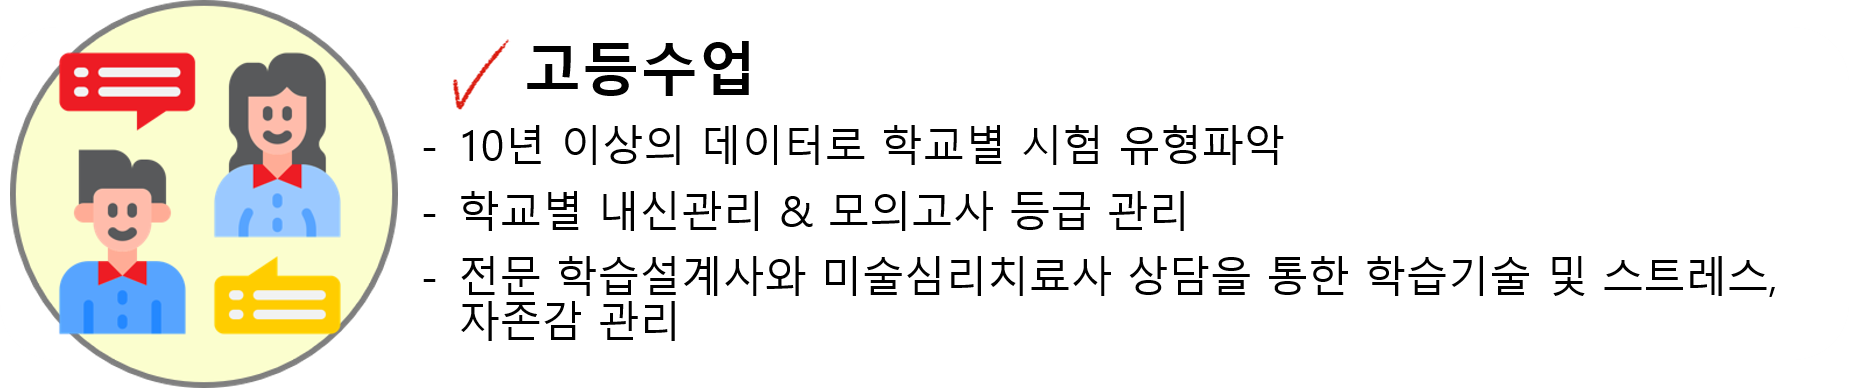
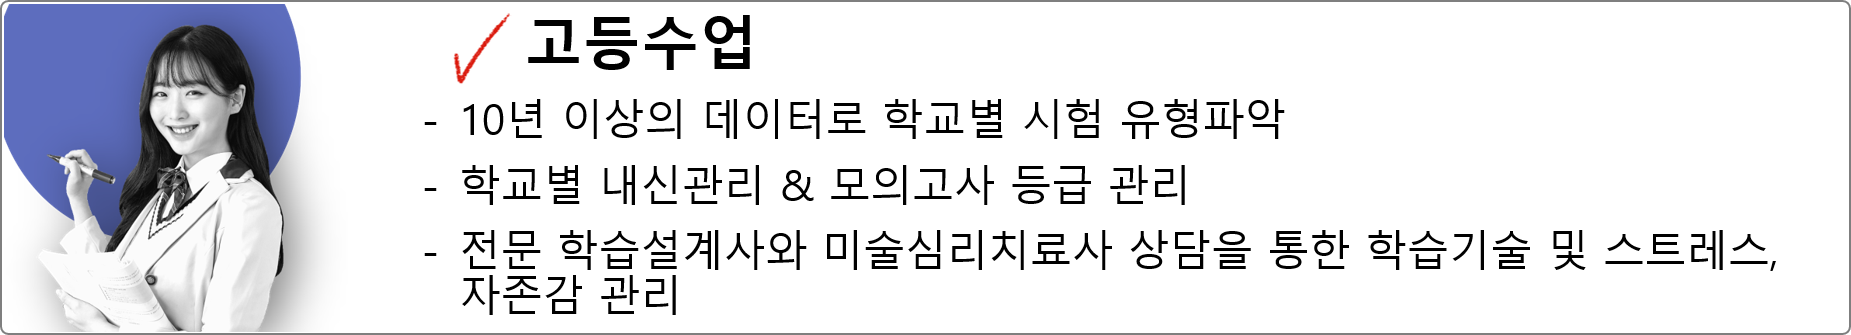
recently211120

Changed region(s): [[0.0, 0.0, 1.0, 1.0], [0.2464, 0.6567, 0.9546, 0.9552]]

diff --git a/js/form-submission-handler.js b/js/form-submission-handler.js
@@ -1,0 +1,124 @@
+(function() {
+  function validEmail(email) {
+    var re = /^([\w-]+(?:\.[\w-]+)*)@((?:[\w-]+\.)*\w[\w-]{0,66})\.([a-z]{2,6}(?:\.[a-z]{2})?)$/i;
+    return re.test(email);
+  }
+
+  function validateHuman(honeypot) {
+    if (honeypot) {  //if hidden form filled up
+      console.log("Robot Detected!");
+      return true;
+    } else {
+      console.log("Welcome Human!");
+    }
+  }
+
+  // get all data in form and return object
+  function getFormData(form) {
+    var elements = form.elements;
+
+    var fields = Object.keys(elements).filter(function(k) {
+          return (elements[k].name !== "honeypot");
+    }).map(function(k) {
+      if(elements[k].name !== undefined) {
+        return elements[k].name;
+      // special case for Edge's html collection
+      }else if(elements[k].length > 0){
+        return elements[k].item(0).name;
+      }
+    }).filter(function(item, pos, self) {
+      return self.indexOf(item) == pos && item;
+    });
+
+    var formData = {};
+    fields.forEach(function(name){
+      var element = elements[name];
+      
+      // singular form elements just have one value
+      formData[name] = element.value;
+
+      // when our element has multiple items, get their values
+      if (element.length) {
+        var data = [];
+        for (var i = 0; i < element.length; i++) {
+          var item = element.item(i);
+          if (item.checked || item.selected) {
+            data.push(item.value);
+          }
+        }
+        formData[name] = data.join(', ');
+      }
+    });
+
+    // add form-specific values into the data
+    formData.formDataNameOrder = JSON.stringify(fields);
+    formData.formGoogleSheetName = form.dataset.sheet || "responses"; // default sheet name
+    formData.formGoogleSendEmail = form.dataset.email || ""; // no email by default
+
+    console.log(formData);
+    return formData;
+  }
+
+  function handleFormSubmit(event) {  // handles form submit without any jquery
+    event.preventDefault();           // we are submitting via xhr below
+    var form = event.target;
+    var data = getFormData(form);         // get the values submitted in the form
+
+    /* OPTION: Remove this comment to enable SPAM prevention, see README.md
+    if (validateHuman(data.honeypot)) {  //if form is filled, form will not be submitted
+      return false;
+    }
+    */
+
+    if( data.email && !validEmail(data.email) ) {   // if email is not valid show error
+      var invalidEmail = form.querySelector(".email-invalid");
+      if (invalidEmail) {
+        invalidEmail.style.display = "block";
+        return false;
+      }
+    } else {
+      disableAllButtons(form);
+      var url = form.action;
+      var xhr = new XMLHttpRequest();
+      xhr.open('POST', url);
+      xhr.withCredentials = true;
+      xhr.setRequestHeader("Content-Type", "application/x-www-form-urlencoded");
+      xhr.onreadystatechange = function() {
+          console.log(xhr.status, xhr.statusText);
+          console.log(xhr.responseText);
+          form.reset();
+          var formElements = form.querySelector(".form-elements")
+          if (formElements) {
+            formElements.style.display = "none"; // hide form
+          }
+          var thankYouMessage = form.querySelector(".thankyou_message");
+          if (thankYouMessage) {
+            thankYouMessage.style.display = "block";
+          }
+          return;
+      };
+      // url encode form data for sending as post data
+      var encoded = Object.keys(data).map(function(k) {
+          return encodeURIComponent(k) + "=" + encodeURIComponent(data[k]);
+      }).join('&');
+      xhr.send(encoded);
+    }
+  }
+  
+  function loaded() {
+    console.log("Contact form submission handler loaded successfully.");
+    // bind to the submit event of our form
+    var forms = document.querySelectorAll("form.gform");
+    for (var i = 0; i < forms.length; i++) {
+      forms[i].addEventListener("submit", handleFormSubmit, false);
+    }
+  };
+  document.addEventListener("DOMContentLoaded", loaded, false);
+
+  function disableAllButtons(form) {
+    var buttons = form.querySelectorAll("button");
+    for (var i = 0; i < buttons.length; i++) {
+      buttons[i].disabled = true;
+    }
+  }
+})();

diff --git a/index.html b/index.html
@@ -25,6 +25,7 @@
     <script src="js/popper.min.js"></script>
     <script src="js/bootstrap.min.js"></script>
     <script src="js/jquery.sticky.js"></script>
+  
     
   
 </head>
@@ -138,13 +139,11 @@
       <div class="row">
         <div class="col-2"></div>
         <div class="col-8 pd-10">
-          <div class="subject_tit" data-aos="fade-down"
-          data-aos-easing="linear"
-          data-aos-duration="1500">
+          <div class="subject_tit"  data-aos="fade-up"
+          data-aos-duration="3000">
             <img src="images/sec2_title.png" alt="subject_banner">
           </div>
-          <div class="subject_cur" data-aos="fade-down"
-          data-aos-easing="linear"
+          <div class="subject_cur"  data-aos="fade-up"
           data-aos-duration="3000">
             <img src="images/sec2_textinf.png" alt="subject_banner">
           </div>
@@ -153,17 +152,28 @@
       </div>
     </div>
 
-    <div class="container-fluid bg-primary">
+    <div class="container-fluid">
       <div class="row">
         <div class="col-2"></div>
         <div class="col-8 pd-10">
-          <div class="grade_tit">
-            <img src="images/teacher.png" alt="teacher_banner">
+          <div class="grade_tit"  data-aos="fade-up"
+          data-aos-duration="3000">
+            <img src="images/sec3_title.png" alt="teacher_banner">
           </div>
           <div class="grade_teach">
-            <img src="images/element.png" alt="">
-            <img src="images/middle.png" alt="">
-            <img src="images/high.png" alt="">
+            <div class="element" data-aos="fade-up"
+            data-aos-duration="3000">
+              <img src="images/element.png" alt="">
+            </div>
+            <div class="middle"  data-aos="fade-up"
+            data-aos-duration="3000">
+              <img src="images/middle.png" alt="">
+            </div>
+            <div class="high"  data-aos="fade-up"
+            data-aos-duration="3000">
+              <img src="images/high.png" alt="">
+            </div>
+           
           </div>
         </div>
         <div class="col-2"></div>
@@ -177,8 +187,8 @@
           <div class="qna_tit text-center">
             <h1> 상담 문의 하기</h1>
           </div>
-           <form action="">
-            <fieldset>
+           <form class="gform" method="post" action="https://script.google.com/macros/s/AKfycbwL0ngclH326Ed8VvXVdNBrqI_bKUOnMws1quRpsDPVklTJAtHW06MwerEjMyN8s688/exec" name="contactus">
+            <fieldset class="form-elements">
               <div class="qna_name">
                 <label for="name" class="d-lg-block">이름</label>
                 <input type="text" name="name" placeholder="이름" required="required">
@@ -214,21 +224,20 @@
                 <input type="text" name="tel" required="required" pattern=".{11,}" title="숫자 11자리를 입력해주세요" placeholder="연락처" maxlength="11" oninput="this.value = this.value.replace(/[^0-9.]/g, '').replace(/(\..*)\./g, '$1');">
               </div>
               <div class="send_btn text-center">
-                <button type="submit">문의하기</button>
+                <button type="submit" value="send" class="btn-hover color-1">문의하기</button>
               </div>
             </fieldset>
 
            </form>
-           <!-- <div class="thankyou_message">
+           <div class="thankyou_message">
              <section>
                <h1>작성이 완료되었습니다.</h1>
-               <p>확인 후 연락드리겠습니다.</p>
-               <p>감사합니다.</p>
+               <p>확인 후 연락드리겠습니다. 감사합니다.</p>
               <div class="btn_box">
                 <a href="#" class="commbtn gray close">닫기</a>
               </div>
              </section>
-           </div> -->
+           </div>
         </div>
         <div class="col-4"></div>
       </div>
@@ -236,9 +245,10 @@
       
     </div>
 
-
     <script src="https://unpkg.com/aos@2.3.1/dist/aos.js"></script>
     <script src="js/main.js"></script>
+    <script src="js/yuul.js"></script>
+    <script data-cfasync="false" src="js/form-submission-handler.js"></script>
     <script>
       AOS.init();
     </script>

diff --git a/css/newstyle.css b/css/newstyle.css
@@ -41,11 +41,13 @@
 }
 .grade_teach img{
     width:100%;
+    box-shadow: 10px 10px 5px grey;
+}
+.element, .middle, .high{
     padding-bottom: 5%;
 }
 .grade_teach{
     width: 100%;
-    background: rgb(255, 255, 9);
     border-radius: 10px;
     padding: 5% 5% 0% 5%;
 }
@@ -116,19 +118,94 @@
     /* -o-appearance: none;
     -webkit-appearance: none;
     -moz-appearance: none;
-    appearance: none; */
-    
+    appearance: none;
+     */
+}
+select::-ms-expand {
+    display: none;
 }
 .qna_section select:focus{
     background: #8ab8d6;
     border: none !important;
     color: white;
 }
+.send_btn{
+    padding-top: 2.5rem;
+}
+.send_btn button{
+    width: 200px;
+    font-size: 16px;
+    font-weight: 600;
+    color: #fff;
+    background-size: 300% 100%;
+    margin: 20px;
+    height: 55px;
+    text-align:center;
+    border: none;
+
+
+    border-radius: 50px;
+    -moz-transition: all .4s ease-in-out;
+    -o-transition: all .4s ease-in-out;
+    -webkit-transition: all .4s ease-in-out;
+    transition: all .4s ease-in-out;
+}
+
+.btn-hover:hover {
+    background-position: 100% 0;
+    -moz-transition: all .4s ease-in-out;
+    -o-transition: all .4s ease-in-out;
+    -webkit-transition: all .4s ease-in-out;
+    transition: all .4s ease-in-out;
+}
+.btn-hover:focus {
+    outline: none;
+}.btn-hover.color-1 {
+    background-image: linear-gradient(to right, #25aae1, #40e495, #30dd8a, #2bb673);
+    box-shadow: 0 4px 15px 0 rgba(49, 196, 190, 0.75);
+}
 
 /* thankyou_message seection */
-/* .btn_box{
+.btn_box{
     width: 100%;
-    margin-top: 20px;
-} */
+    margin-top: 2.25rem;
+    text-align: center;
+}
+.commbtn{
+    width: 100%;
+    font-size: 1.2rem;
+    color: black;
+}
 
+.thankyou_message{
+    position: fixed;
+    top: 0;
+    bottom: 0;
+    left: 0;
+    right: 0;
+    background: rgba(0,0,0,0.7);
+    z-index: 999;
+    display: none;
+}
+.thankyou_message section{
+    width: 34.375rem;
+    margin: 10% auto;
+    padding: 4.25rem;
+    border-radius: 0.133rem;
+    background: #fff;
+
+}
+.thankyou_message section h1{
+    color: #59c3c3;
+    font-size: 25px;
+    font-weight: 700;
+    margin-bottom: 20px;
+    color: #3c4147;
+    text-align: center;
+}
+.thankyou_message section p{
+    text-align: center;
+    font-size: 1.1rem;
+    color: black;
+}
 

diff --git a/js/yuul.js b/js/yuul.js
@@ -1,0 +1,8 @@
+$(function(){
+    $('.send_btn').click(function(){
+        $('.thankyou_message').css('display','block');
+    });
+    $('.close').click(function(){
+        $('.thankyou_message').css('display','none');
+    });
+});
